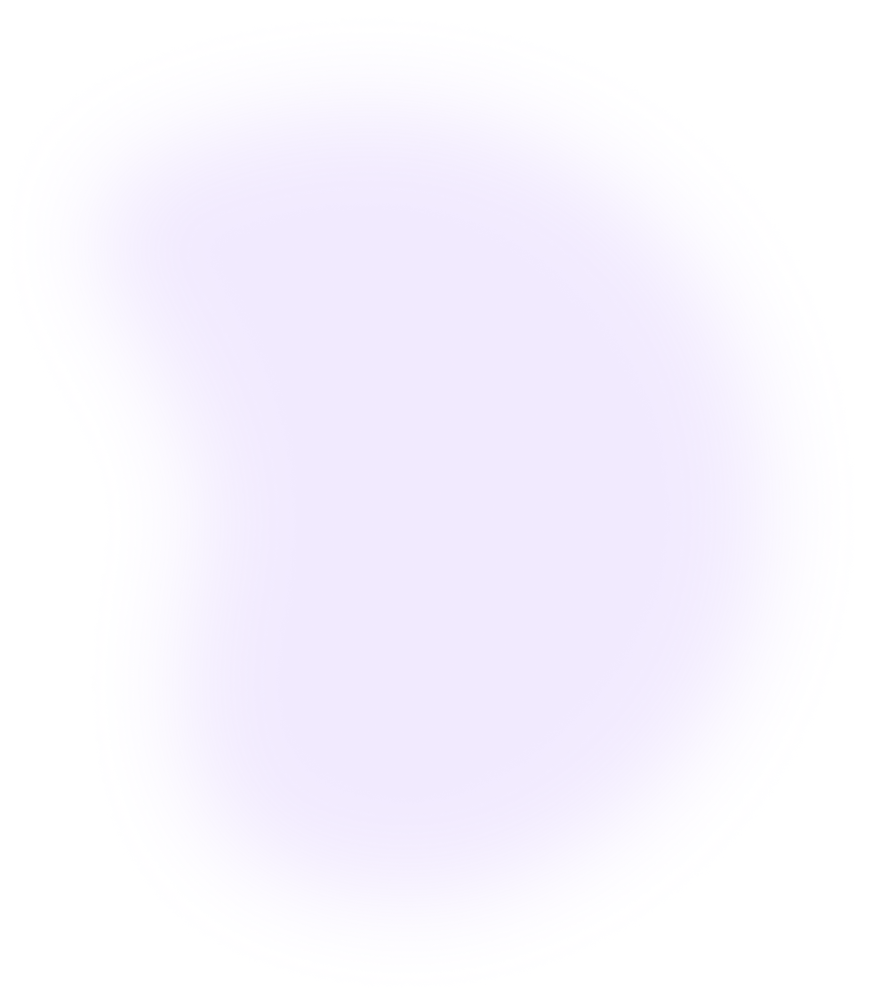
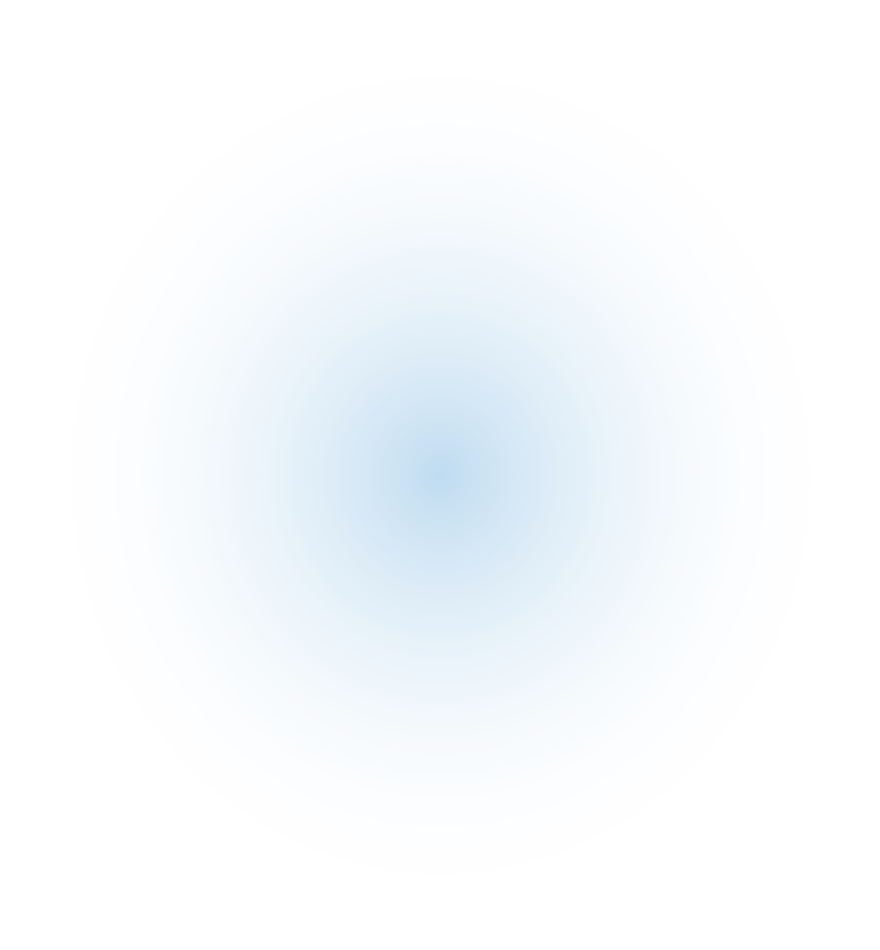
refactor(style): replace blur PNG with CSS radial gradient in multiple components
- Removed static right-blur.png and left-blur.png images from ContactSection,
  LandingAbout, LandingAdditionalServices, LandingCaseStudies, and WorkProcessSection
- Replaced images with div elements applying CSS radial-gradient and blur effects
- Adjusted positioning and size styles for consistent visual appearance
- Updated about-us content team member avatars with new image files for accurate profiles
- Added several new team members and updated roles in about-us content data

Changed region(s): [[0.3716, 0.3968, 0.6193, 0.6105]]

diff --git a/components/contents/about-us/content.ts b/components/contents/about-us/content.ts
@@ -252,106 +252,86 @@ export const allEmployeesSectionContentAboutUs = {
       id: 'employee-1',
       name: 'Tanvir Hasan',
       title: 'Founder & CEO',
-      imageSrc: '/ceo.jpg',
+      imageSrc: '/assets/images/about-us/avatars/tanvir-avatar.jpg',
+      hoverImageSrc: '',
+    },
+    {
+      id: 'employee-2',
+      name: 'Nayeem Ahmed',
+      title: 'App Developer',
+      imageSrc: '/assets/images/about-us/avatars/nayeem-avatar.jpg',
       hoverImageSrc: '',
     },
     {
       id: 'employee-3',
-      name: 'Raihan Mollah',
-      title: 'HR',
-      imageSrc: '',
+      name: 'Rakib Hassan',
+      title: 'Web Developer',
+      imageSrc: '/assets/images/about-us/avatars/rakib-avatar.jpg',
+      hoverImageSrc: '',
     },
     {
       id: 'employee-4',
-      name: 'Zarif Ahmed',
-      title: 'Manager',
-      imageSrc: '',
+      name: 'Arif Rahman',
+      title: 'UI/UX Designer',
+      imageSrc: '/assets/images/about-us/avatars/arif-avatar.jpg',
+      hoverImageSrc: '',
     },
     {
       id: 'employee-5',
-      name: 'Erfan Alin',
-      title: 'Front-end Developer',
-      imageSrc: '',
+      name: 'Sadia Islam',
+      title: 'Digital Marketing Manager',
+      imageSrc: '/assets/images/about-us/avatars/sadia-avatar.jpg',
+      hoverImageSrc: '',
     },
     {
       id: 'employee-6',
-      name: 'Tawhid Islam',
-      title: 'Front-end Developer',
-      imageSrc: '/assets/images/about-us/avatars/tawhid-frontend.jpg',
+      name: 'Farhan Hossain',
+      title: 'SEO Specialist',
+      imageSrc: '/assets/images/about-us/avatars/farhan-avatar.jpg',
       hoverImageSrc: '',
     },
     {
       id: 'employee-7',
-      name: 'Firoz Anam',
-      title: 'Full Stack Developer',
-      imageSrc: '',
+      name: 'Mehedi Hasan',
+      title: 'WordPress Developer',
+      imageSrc: '/assets/images/about-us/avatars/mehedi-avatar.jpg',
+      hoverImageSrc: '',
     },
     {
       id: 'employee-8',
-      name: 'Tanvir Hossain',
-      title: 'Full Stack Developer',
-      imageSrc: '',
+      name: 'Tasnim Akter',
+      title: 'Graphic Designer',
+      imageSrc: '/assets/images/about-us/avatars/tasnim-avatar.jpg',
+      hoverImageSrc: '',
     },
     {
       id: 'employee-9',
-      name: 'Dhrubo Bhowmik Ove',
-      title: 'UI/UX Designer',
-      imageSrc: '',
+      name: 'Sabbir Ahmed',
+      title: 'Full Stack Developer',
+      imageSrc: '/assets/images/about-us/avatars/sabbir-avatar.jpg',
+      hoverImageSrc: '',
     },
     {
       id: 'employee-10',
-      name: 'Ahsan Habib',
-      title: 'UI/UX Designer',
-      imageSrc: '',
+      name: 'Riya Chowdhury',
+      title: 'Video Editor',
+      imageSrc: '/assets/images/about-us/avatars/riya-avatar.jpg',
+      hoverImageSrc: '',
     },
     {
       id: 'employee-11',
-      name: 'Nayim',
-      title: 'Python Developer',
-      imageSrc: '',
+      name: 'Imran Khan',
+      title: 'Social Media Manager',
+      imageSrc: '/assets/images/about-us/avatars/imran-avatar.jpg',
+      hoverImageSrc: '',
     },
     {
       id: 'employee-12',
-      name: 'Ratul',
-      title: 'Full Stack Developer',
-      imageSrc: '',
-    },
-    {
-      id: 'employee-13',
-      name: 'Fahim Shikder',
-      title: 'SEO & WP Expert',
-      imageSrc: '',
-    },
-    {
-      id: 'employee-14',
-      name: 'Alamgir Ahmed',
-      title: 'WordPress Developer',
-      imageSrc: '',
-    },
-    {
-      id: 'employee-15',
-      name: 'Mr. Mannan',
-      title: 'Ads Expert',
-      imageSrc: '',
-    },
-    {
-      id: 'employee-16',
-      name: 'Arnob',
-      title: 'Server admin',
-      imageSrc: '',
-    },
-
-    {
-      id: 'employee-17',
-      name: 'Alvir Mahir',
-      title: 'Server admin',
-      imageSrc: '',
-    },
-    {
-      id: 'employee-18',
-      name: 'Mk Sifat',
-      title: 'Python Developer',
-      imageSrc: '',
+      name: 'Nusrat Jahan',
+      title: 'Content Writer',
+      imageSrc: '/assets/images/about-us/avatars/nusrat-avatar.jpg',
+      hoverImageSrc: '',
     },
   ],
 };
+

diff --git a/components/landingAbout.tsx b/components/landingAbout.tsx
@@ -31,14 +31,9 @@ export default function LandingAbout({
   return (
     <div className="relative w-full overflow-x-hidden overflow-y-visible">
       {/* Blur decoration: hidden on small screens, visible from md with responsive positioning */}
-      <Image
-        src="/assets/images/right-blur.png"
-        alt=""
-        width={400}
-        height={973}
-        className="absolute right-[-130px] top-1/2 z-0 hidden -translate-y-1/2 pointer-events-none md:block"
-        style={{ objectFit: 'contain', maxHeight: '120%' }}
+      <div
         aria-hidden="true"
+        className="pointer-events-none absolute right-[-140px] top-1/2 z-0 hidden h-[650px] w-[500px] -translate-y-1/2 rounded-full bg-[radial-gradient(ellipse_at_center,rgba(4,116,196,0.18)_0%,rgba(6,69,127,0.06)_45%,transparent_70%)] blur-2xl md:block"
       />
       <div className="container relative z-10 mx-auto flex w-full max-w-[1400px] flex-col gap-8 px-4 py-8 sm:gap-10 sm:px-6 sm:py-10 md:gap-12 min-[1250px]:flex-row min-[1250px]:items-stretch min-[1250px]:justify-between min-[1250px]:gap-12 min-[1250px]:px-8 min-[1250px]:py-12 xl:gap-16 xl:py-14">
         {/* Left section: text + CTA */}

diff --git a/components/landingAdditionalServices.tsx b/components/landingAdditionalServices.tsx
@@ -22,14 +22,9 @@ export default function LandingAdditionalServices({
   const finalContent = useContent(contentPath, content || defaultContent);
   return (
     <div className="relative overflow-hidden px-[1rem] py-8">
-      <Image
-        src="/assets/images/right-blur.png"
-        alt=""
-        width={400}
-        height={973}
-        className="absolute right-[-130px] top-1/2 -translate-y-1/2 z-0 pointer-events-none"
-        style={{ objectFit: 'contain', maxHeight: '120%' }}
+      <div
         aria-hidden="true"
+        className="pointer-events-none absolute right-[-140px] top-1/2 z-0 h-[650px] w-[500px] -translate-y-1/2 rounded-full bg-[radial-gradient(ellipse_at_center,rgba(4,116,196,0.18)_0%,rgba(6,69,127,0.06)_45%,transparent_70%)] blur-2xl"
       />
       <div className="container relative z-10 mx-auto min-[560px]:px-[2rem]">
         <div className="flex flex-col gap-18 lg:flex-row lg:gap-12 xl:gap-16">

diff --git a/components/workProcessSection.tsx b/components/workProcessSection.tsx
@@ -151,14 +151,9 @@ export default function WorkProcessSection({
 
   return (
     <div className="relative overflow-hidden py-8">
-      <Image
-        src="/assets/images/left-blur.png"
-        alt=""
-        width={400}
-        height={973}
-        className="absolute left-[-130px] top-[500px] -translate-y-1/2 z-0 pointer-events-none"
-        style={{ objectFit: 'contain', maxHeight: '120%' }}
+      <div
         aria-hidden="true"
+        className="pointer-events-none absolute left-[-140px] top-[500px] z-0 h-[650px] w-[500px] -translate-y-1/2 rounded-full bg-[radial-gradient(ellipse_at_center,rgba(4,116,196,0.18)_0%,rgba(6,69,127,0.06)_45%,transparent_70%)] blur-2xl"
       />
       <div className="container mx-auto px-4 sm:px-6 lg:px-8">
         <div className="flex flex-col gap-12 lg:flex-row lg:gap-16">

diff --git a/components/contactSection.tsx b/components/contactSection.tsx
@@ -28,14 +28,9 @@ export default function ContactSection({
 
   return (
     <div id="contact-section" className="relative overflow-hidden py-8">
-      <Image
-        src="/assets/images/right-blur.png"
-        alt=""
-        width={400}
-        height={973}
-        className="absolute right-[-130px] top-1/2 -translate-y-1/2 z-0 pointer-events-none"
-        style={{ objectFit: 'contain', maxHeight: '120%' }}
+      <div
         aria-hidden="true"
+        className="pointer-events-none absolute right-[-140px] top-1/2 z-0 h-[650px] w-[500px] -translate-y-1/2 rounded-full bg-[radial-gradient(ellipse_at_center,rgba(4,116,196,0.18)_0%,rgba(6,69,127,0.06)_45%,transparent_70%)] blur-2xl"
       />
       <div className="container mx-auto px-4 sm:px-6 lg:px-8">
         {/* Header Section */}

diff --git a/components/landingCaseStudies.tsx b/components/landingCaseStudies.tsx
@@ -19,14 +19,9 @@ export default function LandingCaseStudies({
 
   return (
     <div className="relative overflow-hidden px-[1rem] py-8 sm:px-[2rem]">
-      <Image
-        src="/assets/images/left-blur.png"
-        alt=""
-        width={400}
-        height={973}
-        className="absolute left-[-130px] top-[-155px] -translate-y-1/2 z-0 pointer-events-none"
-        style={{ objectFit: 'contain', maxHeight: '120%' }}
+      <div
         aria-hidden="true"
+        className="pointer-events-none absolute left-[-140px] top-[-155px] z-0 h-[650px] w-[500px] -translate-y-1/2 rounded-full bg-[radial-gradient(ellipse_at_center,rgba(4,116,196,0.18)_0%,rgba(6,69,127,0.06)_45%,transparent_70%)] blur-2xl"
       />
       <div className="container mx-auto">
         {/* Header Section */}
